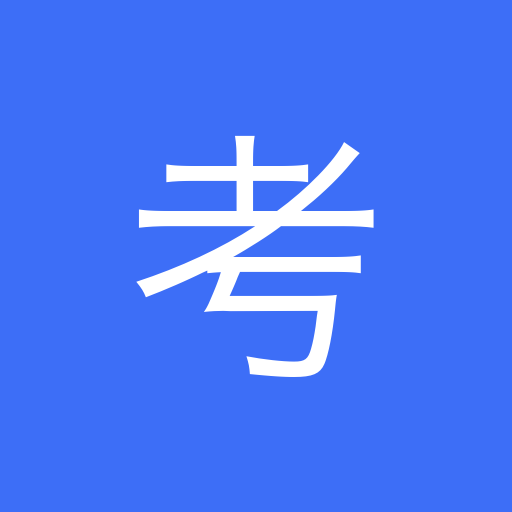
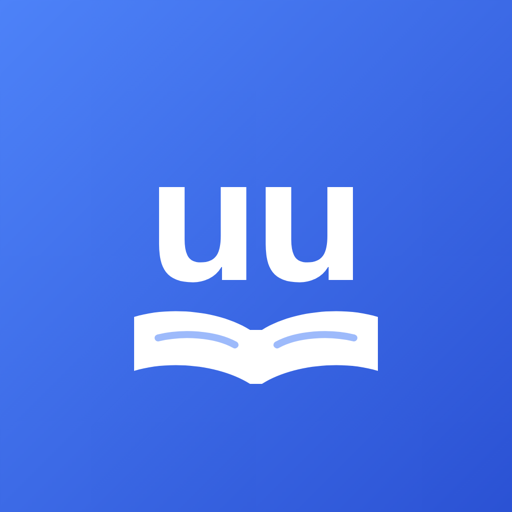
v3.28.0: 自定义 PWA 图标（uu 学习版：品牌蓝渐变 + 白色 uu + 打开的书）

Changed region(s): [[0.25, 0.25, 1.0, 1.0], [0.6875, 0.5, 0.7188, 0.5312]]

diff --git a/index.html b/index.html
@@ -1827,7 +1827,7 @@ button:not(:disabled):active { opacity: .78; }
       setTimeout(function () { if (splash && splash.parentNode) splash.parentNode.removeChild(splash); }, 650);
       // 就绪后后台补缓存（SW 已激活则 fetch 经 runtime 写入；HTTP 缓存命中零流量）
       try {
-        var urls = ["data/knowledge.js?v=3.27.0","data/questions-changshi.js?v=3.27.0","data/questions-yanyu.js?v=3.27.0","data/questions-shuliang.js?v=3.27.0","data/questions-panduan.js?v=3.27.0","data/questions-figure-2223.js?v=3.27.0","data/questions-ziliao.js?v=3.27.0","data/questions-2015.js?v=3.27.0","data/questions-2016.js?v=3.27.0","data/questions-2017.js?v=3.27.0","data/questions-2018.js?v=3.27.0","data/questions-2019.js?v=3.27.0","data/questions-2020.js?v=3.27.0","data/questions-2021.js?v=3.27.0","data/questions-2025.js?v=3.27.0","data/questions-2024b.js?v=3.27.0","data/questions-tianjin.js?v=3.27.0","data/questions-tj2021.js?v=3.27.0","data/questions-tj2022.js?v=3.27.0","data/questions-tj2023.js?v=3.27.0","data/questions-tj2024.js?v=3.27.0","data/questions-tj2025b.js?v=3.27.0","data/questions-gk2025b.js?v=3.27.0","data/questions-gk2019-2021b.js?v=3.27.0","data/questions-gk-ziliao-b.js?v=3.27.0","data/questions-shenlun.js?v=3.27.0","data/questions-xz-gk-cs.js?v=3.27.0","data/questions-xz-tj-cs.js?v=3.27.0","data/questions-xz-jl-cs.js?v=3.27.0","data/questions-xz-gk-yy.js?v=3.27.0","data/questions-xz-tj-yy.js?v=3.27.0","data/questions-xz-jl-yy.js?v=3.27.0","data/questions-xz-gk-sl.js?v=3.27.0","data/questions-xz-tj-sl.js?v=3.27.0","data/questions-xz-jl-sl.js?v=3.27.0","data/questions-xz-gk-pd.js?v=3.27.0","data/questions-xz-tj-pd.js?v=3.27.0","data/questions-xz-jl-pd.js?v=3.27.0","data/questions-xz-gk-zl.js?v=3.27.0","data/questions-xz-tj-zl.js?v=3.27.0","data/questions-xz-jl-zl.js?v=3.27.0","data/questions-shenlun-gkfs.js?v=3.27.0","data/questions-shenlun-gkds.js?v=3.27.0","data/questions-shenlun-gkzf.js?v=3.27.0","data/questions-shenlun-tj.js?v=3.27.0","app.js?v=3.27.0"];
+        var urls = ["data/knowledge.js?v=3.28.0","data/questions-changshi.js?v=3.28.0","data/questions-yanyu.js?v=3.28.0","data/questions-shuliang.js?v=3.28.0","data/questions-panduan.js?v=3.28.0","data/questions-figure-2223.js?v=3.28.0","data/questions-ziliao.js?v=3.28.0","data/questions-2015.js?v=3.28.0","data/questions-2016.js?v=3.28.0","data/questions-2017.js?v=3.28.0","data/questions-2018.js?v=3.28.0","data/questions-2019.js?v=3.28.0","data/questions-2020.js?v=3.28.0","data/questions-2021.js?v=3.28.0","data/questions-2025.js?v=3.28.0","data/questions-2024b.js?v=3.28.0","data/questions-tianjin.js?v=3.28.0","data/questions-tj2021.js?v=3.28.0","data/questions-tj2022.js?v=3.28.0","data/questions-tj2023.js?v=3.28.0","data/questions-tj2024.js?v=3.28.0","data/questions-tj2025b.js?v=3.28.0","data/questions-gk2025b.js?v=3.28.0","data/questions-gk2019-2021b.js?v=3.28.0","data/questions-gk-ziliao-b.js?v=3.28.0","data/questions-shenlun.js?v=3.28.0","data/questions-xz-gk-cs.js?v=3.28.0","data/questions-xz-tj-cs.js?v=3.28.0","data/questions-xz-jl-cs.js?v=3.28.0","data/questions-xz-gk-yy.js?v=3.28.0","data/questions-xz-tj-yy.js?v=3.28.0","data/questions-xz-jl-yy.js?v=3.28.0","data/questions-xz-gk-sl.js?v=3.28.0","data/questions-xz-tj-sl.js?v=3.28.0","data/questions-xz-jl-sl.js?v=3.28.0","data/questions-xz-gk-pd.js?v=3.28.0","data/questions-xz-tj-pd.js?v=3.28.0","data/questions-xz-jl-pd.js?v=3.28.0","data/questions-xz-gk-zl.js?v=3.28.0","data/questions-xz-tj-zl.js?v=3.28.0","data/questions-xz-jl-zl.js?v=3.28.0","data/questions-shenlun-gkfs.js?v=3.28.0","data/questions-shenlun-gkds.js?v=3.28.0","data/questions-shenlun-gkzf.js?v=3.28.0","data/questions-shenlun-tj.js?v=3.28.0","app.js?v=3.28.0"];
         setTimeout(function () { urls.forEach(function (u) { fetch(u, { cache: 'default' }).catch(function () {}); }); }, 800);
       } catch (e) {}
     };
@@ -1840,7 +1840,7 @@ button:not(:disabled):active { opacity: .78; }
     <div class="__boot-card">
       <div class="__boot-logo">考</div>
       <div class="__boot-name">考公学习</div>
-      <div class="__boot-ver">v3.27.0</div>
+      <div class="__boot-ver">v3.28.0</div>
       <div class="__boot-track"><div class="__boot-fill" id="__boot-fill"></div></div>
       <div class="__boot-num" id="__boot-num">正在准备题库…</div>
       <div class="__boot-hint">首次加载约需 1-2 分钟（取决于网速）<br>网站不更新只需加载这一次，之后秒开、离线可用</div>
@@ -2127,7 +2127,7 @@ button:not(:disabled):active { opacity: .78; }
 
     <footer class="colophon">
       题目来自历年国家公务员考试真题（考生回忆版），申论参考答案据公开资料整理仅供对照 · 部分解析由 AI 校订补写 · 仅供个人练习
-      <br><span id="app-ver">v3.27.0</span><span id="build-stamp">（构建于 2026-09-29 15:48）</span>
+      <br><span id="app-ver">v3.28.0</span><span id="build-stamp">（构建于 2026-09-29 16:12）</span>
     </footer>
 
     <!-- app 式底部导航：四页签，当前页高亮 -->
@@ -2142,52 +2142,52 @@ button:not(:disabled):active { opacity: .78; }
   <div id="toast" class="toast" hidden></div>
 
   <!-- 题库与知识点 -->
-<script src="data/knowledge.js?v=3.27.0" defer onload="window.__bLoad&&window.__bLoad()" onerror="window.__bFail&&window.__bFail('data/knowledge.js')"></script>
-<script src="data/questions-changshi.js?v=3.27.0" defer onload="window.__bLoad&&window.__bLoad()" onerror="window.__bFail&&window.__bFail('data/questions-changshi.js')"></script>
-<script src="data/questions-yanyu.js?v=3.27.0" defer onload="window.__bLoad&&window.__bLoad()" onerror="window.__bFail&&window.__bFail('data/questions-yanyu.js')"></script>
-<script src="data/questions-shuliang.js?v=3.27.0" defer onload="window.__bLoad&&window.__bLoad()" onerror="window.__bFail&&window.__bFail('data/questions-shuliang.js')"></script>
-<script src="data/questions-panduan.js?v=3.27.0" defer onload="window.__bLoad&&window.__bLoad()" onerror="window.__bFail&&window.__bFail('data/questions-panduan.js')"></script>
-<script src="data/questions-figure-2223.js?v=3.27.0" defer onload="window.__bLoad&&window.__bLoad()" onerror="window.__bFail&&window.__bFail('data/questions-figure-2223.js')"></script>
-<script src="data/questions-ziliao.js?v=3.27.0" defer onload="window.__bLoad&&window.__bLoad()" onerror="window.__bFail&&window.__bFail('data/questions-ziliao.js')"></script>
-<script src="data/questions-2015.js?v=3.27.0" defer onload="window.__bLoad&&window.__bLoad()" onerror="window.__bFail&&window.__bFail('data/questions-2015.js')"></script>
-<script src="data/questions-2016.js?v=3.27.0" defer onload="window.__bLoad&&window.__bLoad()" onerror="window.__bFail&&window.__bFail('data/questions-2016.js')"></script>
-<script src="data/questions-2017.js?v=3.27.0" defer onload="window.__bLoad&&window.__bLoad()" onerror="window.__bFail&&window.__bFail('data/questions-2017.js')"></script>
-<script src="data/questions-2018.js?v=3.27.0" defer onload="window.__bLoad&&window.__bLoad()" onerror="window.__bFail&&window.__bFail('data/questions-2018.js')"></script>
-<script src="data/questions-2019.js?v=3.27.0" defer onload="window.__bLoad&&window.__bLoad()" onerror="window.__bFail&&window.__bFail('data/questions-2019.js')"></script>
-<script src="data/questions-2020.js?v=3.27.0" defer onload="window.__bLoad&&window.__bLoad()" onerror="window.__bFail&&window.__bFail('data/questions-2020.js')"></script>
-<script src="data/questions-2021.js?v=3.27.0" defer onload="window.__bLoad&&window.__bLoad()" onerror="window.__bFail&&window.__bFail('data/questions-2021.js')"></script>
-<script src="data/questions-2025.js?v=3.27.0" defer onload="window.__bLoad&&window.__bLoad()" onerror="window.__bFail&&window.__bFail('data/questions-2025.js')"></script>
-<script src="data/questions-2024b.js?v=3.27.0" defer onload="window.__bLoad&&window.__bLoad()" onerror="window.__bFail&&window.__bFail('data/questions-2024b.js')"></script>
-<script src="data/questions-tianjin.js?v=3.27.0" defer onload="window.__bLoad&&window.__bLoad()" onerror="window.__bFail&&window.__bFail('data/questions-tianjin.js')"></script>
-<script src="data/questions-tj2021.js?v=3.27.0" defer onload="window.__bLoad&&window.__bLoad()" onerror="window.__bFail&&window.__bFail('data/questions-tj2021.js')"></script>
-<script src="data/questions-tj2022.js?v=3.27.0" defer onload="window.__bLoad&&window.__bLoad()" onerror="window.__bFail&&window.__bFail('data/questions-tj2022.js')"></script>
-<script src="data/questions-tj2023.js?v=3.27.0" defer onload="window.__bLoad&&window.__bLoad()" onerror="window.__bFail&&window.__bFail('data/questions-tj2023.js')"></script>
-<script src="data/questions-tj2024.js?v=3.27.0" defer onload="window.__bLoad&&window.__bLoad()" onerror="window.__bFail&&window.__bFail('data/questions-tj2024.js')"></script>
-<script src="data/questions-tj2025b.js?v=3.27.0" defer onload="window.__bLoad&&window.__bLoad()" onerror="window.__bFail&&window.__bFail('data/questions-tj2025b.js')"></script>
-<script src="data/questions-gk2025b.js?v=3.27.0" defer onload="window.__bLoad&&window.__bLoad()" onerror="window.__bFail&&window.__bFail('data/questions-gk2025b.js')"></script>
-<script src="data/questions-gk2019-2021b.js?v=3.27.0" defer onload="window.__bLoad&&window.__bLoad()" onerror="window.__bFail&&window.__bFail('data/questions-gk2019-2021b.js')"></script>
-<script src="data/questions-gk-ziliao-b.js?v=3.27.0" defer onload="window.__bLoad&&window.__bLoad()" onerror="window.__bFail&&window.__bFail('data/questions-gk-ziliao-b.js')"></script>
-<script src="data/questions-shenlun.js?v=3.27.0" defer onload="window.__bLoad&&window.__bLoad()" onerror="window.__bFail&&window.__bFail('data/questions-shenlun.js')"></script>
-<script src="data/questions-xz-gk-cs.js?v=3.27.0" defer onload="window.__bLoad&&window.__bLoad()" onerror="window.__bFail&&window.__bFail('data/questions-xz-gk-cs.js')"></script>
-<script src="data/questions-xz-tj-cs.js?v=3.27.0" defer onload="window.__bLoad&&window.__bLoad()" onerror="window.__bFail&&window.__bFail('data/questions-xz-tj-cs.js')"></script>
-<script src="data/questions-xz-jl-cs.js?v=3.27.0" defer onload="window.__bLoad&&window.__bLoad()" onerror="window.__bFail&&window.__bFail('data/questions-xz-jl-cs.js')"></script>
-<script src="data/questions-xz-gk-yy.js?v=3.27.0" defer onload="window.__bLoad&&window.__bLoad()" onerror="window.__bFail&&window.__bFail('data/questions-xz-gk-yy.js')"></script>
-<script src="data/questions-xz-tj-yy.js?v=3.27.0" defer onload="window.__bLoad&&window.__bLoad()" onerror="window.__bFail&&window.__bFail('data/questions-xz-tj-yy.js')"></script>
-<script src="data/questions-xz-jl-yy.js?v=3.27.0" defer onload="window.__bLoad&&window.__bLoad()" onerror="window.__bFail&&window.__bFail('data/questions-xz-jl-yy.js')"></script>
-<script src="data/questions-xz-gk-sl.js?v=3.27.0" defer onload="window.__bLoad&&window.__bLoad()" onerror="window.__bFail&&window.__bFail('data/questions-xz-gk-sl.js')"></script>
-<script src="data/questions-xz-tj-sl.js?v=3.27.0" defer onload="window.__bLoad&&window.__bLoad()" onerror="window.__bFail&&window.__bFail('data/questions-xz-tj-sl.js')"></script>
-<script src="data/questions-xz-jl-sl.js?v=3.27.0" defer onload="window.__bLoad&&window.__bLoad()" onerror="window.__bFail&&window.__bFail('data/questions-xz-jl-sl.js')"></script>
-<script src="data/questions-xz-gk-pd.js?v=3.27.0" defer onload="window.__bLoad&&window.__bLoad()" onerror="window.__bFail&&window.__bFail('data/questions-xz-gk-pd.js')"></script>
-<script src="data/questions-xz-tj-pd.js?v=3.27.0" defer onload="window.__bLoad&&window.__bLoad()" onerror="window.__bFail&&window.__bFail('data/questions-xz-tj-pd.js')"></script>
-<script src="data/questions-xz-jl-pd.js?v=3.27.0" defer onload="window.__bLoad&&window.__bLoad()" onerror="window.__bFail&&window.__bFail('data/questions-xz-jl-pd.js')"></script>
-<script src="data/questions-xz-gk-zl.js?v=3.27.0" defer onload="window.__bLoad&&window.__bLoad()" onerror="window.__bFail&&window.__bFail('data/questions-xz-gk-zl.js')"></script>
-<script src="data/questions-xz-tj-zl.js?v=3.27.0" defer onload="window.__bLoad&&window.__bLoad()" onerror="window.__bFail&&window.__bFail('data/questions-xz-tj-zl.js')"></script>
-<script src="data/questions-xz-jl-zl.js?v=3.27.0" defer onload="window.__bLoad&&window.__bLoad()" onerror="window.__bFail&&window.__bFail('data/questions-xz-jl-zl.js')"></script>
-<script src="data/questions-shenlun-gkfs.js?v=3.27.0" defer onload="window.__bLoad&&window.__bLoad()" onerror="window.__bFail&&window.__bFail('data/questions-shenlun-gkfs.js')"></script>
-<script src="data/questions-shenlun-gkds.js?v=3.27.0" defer onload="window.__bLoad&&window.__bLoad()" onerror="window.__bFail&&window.__bFail('data/questions-shenlun-gkds.js')"></script>
-<script src="data/questions-shenlun-gkzf.js?v=3.27.0" defer onload="window.__bLoad&&window.__bLoad()" onerror="window.__bFail&&window.__bFail('data/questions-shenlun-gkzf.js')"></script>
-<script src="data/questions-shenlun-tj.js?v=3.27.0" defer onload="window.__bLoad&&window.__bLoad()" onerror="window.__bFail&&window.__bFail('data/questions-shenlun-tj.js')"></script>
-<script src="app.js?v=3.27.0" defer onload="window.__bLoad&&window.__bLoad()" onerror="window.__bFail&&window.__bFail('app.js')"></script>
+<script src="data/knowledge.js?v=3.28.0" defer onload="window.__bLoad&&window.__bLoad()" onerror="window.__bFail&&window.__bFail('data/knowledge.js')"></script>
+<script src="data/questions-changshi.js?v=3.28.0" defer onload="window.__bLoad&&window.__bLoad()" onerror="window.__bFail&&window.__bFail('data/questions-changshi.js')"></script>
+<script src="data/questions-yanyu.js?v=3.28.0" defer onload="window.__bLoad&&window.__bLoad()" onerror="window.__bFail&&window.__bFail('data/questions-yanyu.js')"></script>
+<script src="data/questions-shuliang.js?v=3.28.0" defer onload="window.__bLoad&&window.__bLoad()" onerror="window.__bFail&&window.__bFail('data/questions-shuliang.js')"></script>
+<script src="data/questions-panduan.js?v=3.28.0" defer onload="window.__bLoad&&window.__bLoad()" onerror="window.__bFail&&window.__bFail('data/questions-panduan.js')"></script>
+<script src="data/questions-figure-2223.js?v=3.28.0" defer onload="window.__bLoad&&window.__bLoad()" onerror="window.__bFail&&window.__bFail('data/questions-figure-2223.js')"></script>
+<script src="data/questions-ziliao.js?v=3.28.0" defer onload="window.__bLoad&&window.__bLoad()" onerror="window.__bFail&&window.__bFail('data/questions-ziliao.js')"></script>
+<script src="data/questions-2015.js?v=3.28.0" defer onload="window.__bLoad&&window.__bLoad()" onerror="window.__bFail&&window.__bFail('data/questions-2015.js')"></script>
+<script src="data/questions-2016.js?v=3.28.0" defer onload="window.__bLoad&&window.__bLoad()" onerror="window.__bFail&&window.__bFail('data/questions-2016.js')"></script>
+<script src="data/questions-2017.js?v=3.28.0" defer onload="window.__bLoad&&window.__bLoad()" onerror="window.__bFail&&window.__bFail('data/questions-2017.js')"></script>
+<script src="data/questions-2018.js?v=3.28.0" defer onload="window.__bLoad&&window.__bLoad()" onerror="window.__bFail&&window.__bFail('data/questions-2018.js')"></script>
+<script src="data/questions-2019.js?v=3.28.0" defer onload="window.__bLoad&&window.__bLoad()" onerror="window.__bFail&&window.__bFail('data/questions-2019.js')"></script>
+<script src="data/questions-2020.js?v=3.28.0" defer onload="window.__bLoad&&window.__bLoad()" onerror="window.__bFail&&window.__bFail('data/questions-2020.js')"></script>
+<script src="data/questions-2021.js?v=3.28.0" defer onload="window.__bLoad&&window.__bLoad()" onerror="window.__bFail&&window.__bFail('data/questions-2021.js')"></script>
+<script src="data/questions-2025.js?v=3.28.0" defer onload="window.__bLoad&&window.__bLoad()" onerror="window.__bFail&&window.__bFail('data/questions-2025.js')"></script>
+<script src="data/questions-2024b.js?v=3.28.0" defer onload="window.__bLoad&&window.__bLoad()" onerror="window.__bFail&&window.__bFail('data/questions-2024b.js')"></script>
+<script src="data/questions-tianjin.js?v=3.28.0" defer onload="window.__bLoad&&window.__bLoad()" onerror="window.__bFail&&window.__bFail('data/questions-tianjin.js')"></script>
+<script src="data/questions-tj2021.js?v=3.28.0" defer onload="window.__bLoad&&window.__bLoad()" onerror="window.__bFail&&window.__bFail('data/questions-tj2021.js')"></script>
+<script src="data/questions-tj2022.js?v=3.28.0" defer onload="window.__bLoad&&window.__bLoad()" onerror="window.__bFail&&window.__bFail('data/questions-tj2022.js')"></script>
+<script src="data/questions-tj2023.js?v=3.28.0" defer onload="window.__bLoad&&window.__bLoad()" onerror="window.__bFail&&window.__bFail('data/questions-tj2023.js')"></script>
+<script src="data/questions-tj2024.js?v=3.28.0" defer onload="window.__bLoad&&window.__bLoad()" onerror="window.__bFail&&window.__bFail('data/questions-tj2024.js')"></script>
+<script src="data/questions-tj2025b.js?v=3.28.0" defer onload="window.__bLoad&&window.__bLoad()" onerror="window.__bFail&&window.__bFail('data/questions-tj2025b.js')"></script>
+<script src="data/questions-gk2025b.js?v=3.28.0" defer onload="window.__bLoad&&window.__bLoad()" onerror="window.__bFail&&window.__bFail('data/questions-gk2025b.js')"></script>
+<script src="data/questions-gk2019-2021b.js?v=3.28.0" defer onload="window.__bLoad&&window.__bLoad()" onerror="window.__bFail&&window.__bFail('data/questions-gk2019-2021b.js')"></script>
+<script src="data/questions-gk-ziliao-b.js?v=3.28.0" defer onload="window.__bLoad&&window.__bLoad()" onerror="window.__bFail&&window.__bFail('data/questions-gk-ziliao-b.js')"></script>
+<script src="data/questions-shenlun.js?v=3.28.0" defer onload="window.__bLoad&&window.__bLoad()" onerror="window.__bFail&&window.__bFail('data/questions-shenlun.js')"></script>
+<script src="data/questions-xz-gk-cs.js?v=3.28.0" defer onload="window.__bLoad&&window.__bLoad()" onerror="window.__bFail&&window.__bFail('data/questions-xz-gk-cs.js')"></script>
+<script src="data/questions-xz-tj-cs.js?v=3.28.0" defer onload="window.__bLoad&&window.__bLoad()" onerror="window.__bFail&&window.__bFail('data/questions-xz-tj-cs.js')"></script>
+<script src="data/questions-xz-jl-cs.js?v=3.28.0" defer onload="window.__bLoad&&window.__bLoad()" onerror="window.__bFail&&window.__bFail('data/questions-xz-jl-cs.js')"></script>
+<script src="data/questions-xz-gk-yy.js?v=3.28.0" defer onload="window.__bLoad&&window.__bLoad()" onerror="window.__bFail&&window.__bFail('data/questions-xz-gk-yy.js')"></script>
+<script src="data/questions-xz-tj-yy.js?v=3.28.0" defer onload="window.__bLoad&&window.__bLoad()" onerror="window.__bFail&&window.__bFail('data/questions-xz-tj-yy.js')"></script>
+<script src="data/questions-xz-jl-yy.js?v=3.28.0" defer onload="window.__bLoad&&window.__bLoad()" onerror="window.__bFail&&window.__bFail('data/questions-xz-jl-yy.js')"></script>
+<script src="data/questions-xz-gk-sl.js?v=3.28.0" defer onload="window.__bLoad&&window.__bLoad()" onerror="window.__bFail&&window.__bFail('data/questions-xz-gk-sl.js')"></script>
+<script src="data/questions-xz-tj-sl.js?v=3.28.0" defer onload="window.__bLoad&&window.__bLoad()" onerror="window.__bFail&&window.__bFail('data/questions-xz-tj-sl.js')"></script>
+<script src="data/questions-xz-jl-sl.js?v=3.28.0" defer onload="window.__bLoad&&window.__bLoad()" onerror="window.__bFail&&window.__bFail('data/questions-xz-jl-sl.js')"></script>
+<script src="data/questions-xz-gk-pd.js?v=3.28.0" defer onload="window.__bLoad&&window.__bLoad()" onerror="window.__bFail&&window.__bFail('data/questions-xz-gk-pd.js')"></script>
+<script src="data/questions-xz-tj-pd.js?v=3.28.0" defer onload="window.__bLoad&&window.__bLoad()" onerror="window.__bFail&&window.__bFail('data/questions-xz-tj-pd.js')"></script>
+<script src="data/questions-xz-jl-pd.js?v=3.28.0" defer onload="window.__bLoad&&window.__bLoad()" onerror="window.__bFail&&window.__bFail('data/questions-xz-jl-pd.js')"></script>
+<script src="data/questions-xz-gk-zl.js?v=3.28.0" defer onload="window.__bLoad&&window.__bLoad()" onerror="window.__bFail&&window.__bFail('data/questions-xz-gk-zl.js')"></script>
+<script src="data/questions-xz-tj-zl.js?v=3.28.0" defer onload="window.__bLoad&&window.__bLoad()" onerror="window.__bFail&&window.__bFail('data/questions-xz-tj-zl.js')"></script>
+<script src="data/questions-xz-jl-zl.js?v=3.28.0" defer onload="window.__bLoad&&window.__bLoad()" onerror="window.__bFail&&window.__bFail('data/questions-xz-jl-zl.js')"></script>
+<script src="data/questions-shenlun-gkfs.js?v=3.28.0" defer onload="window.__bLoad&&window.__bLoad()" onerror="window.__bFail&&window.__bFail('data/questions-shenlun-gkfs.js')"></script>
+<script src="data/questions-shenlun-gkds.js?v=3.28.0" defer onload="window.__bLoad&&window.__bLoad()" onerror="window.__bFail&&window.__bFail('data/questions-shenlun-gkds.js')"></script>
+<script src="data/questions-shenlun-gkzf.js?v=3.28.0" defer onload="window.__bLoad&&window.__bLoad()" onerror="window.__bFail&&window.__bFail('data/questions-shenlun-gkzf.js')"></script>
+<script src="data/questions-shenlun-tj.js?v=3.28.0" defer onload="window.__bLoad&&window.__bLoad()" onerror="window.__bFail&&window.__bFail('data/questions-shenlun-tj.js')"></script>
+<script src="app.js?v=3.28.0" defer onload="window.__bLoad&&window.__bLoad()" onerror="window.__bFail&&window.__bFail('app.js')"></script>
   <script>
   if ("serviceWorker" in navigator && location.protocol.indexOf("http") === 0) {
     navigator.serviceWorker.register("sw.js", { updateViaCache: "none" }).then(function (reg) {

diff --git a/sw.js b/sw.js
@@ -1,6 +1,6 @@
 // 考公学习离线缓存：安装只缓存小壳（秒装）；题库/app.js 随页面加载经 fetch handler 运行时缓存，
 // 页面就绪后再后台补缓存漏网文件——首访零双重下载（v3.22.1 前安装期抢带宽导致题库加载不动）
-var CACHE = "xingce-quiz-v3.27.0";
+var CACHE = "xingce-quiz-v3.28.0";
 var ASSETS = ["./", "./index.html", "./manifest.webmanifest", "./icon-192.png", "./icon-512.png", "./splash-750x1334.png", "./splash-1125x2436.png", "./splash-1170x2532.png", "./splash-1179x2556.png", "./splash-1284x2778.png", "./splash-1290x2796.png", "./splash-2048x2732.png"];
 
 self.addEventListener("install", function (e) {
